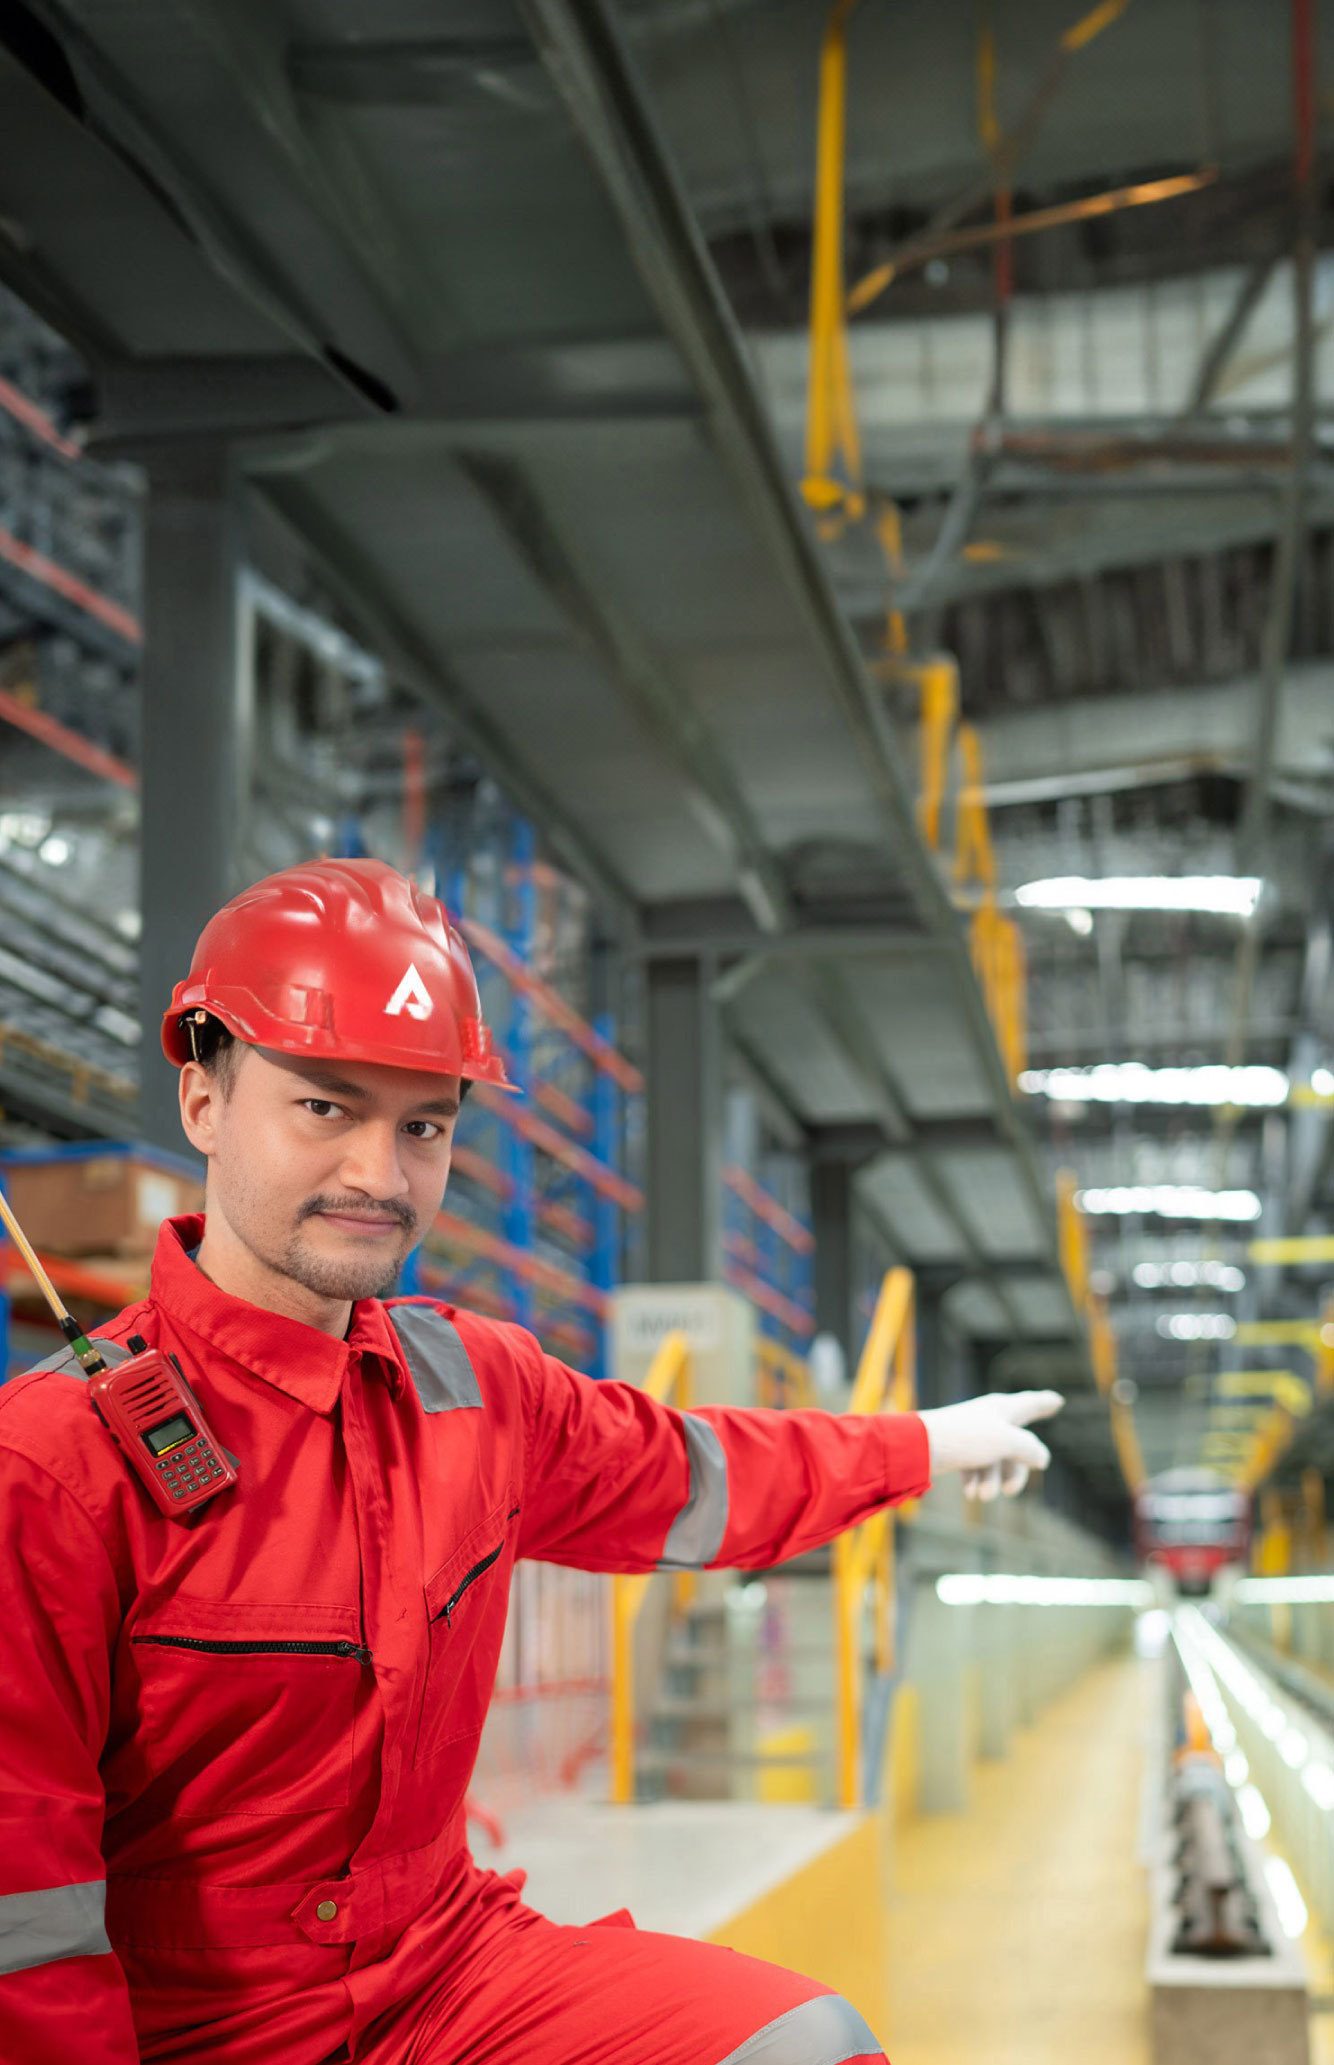
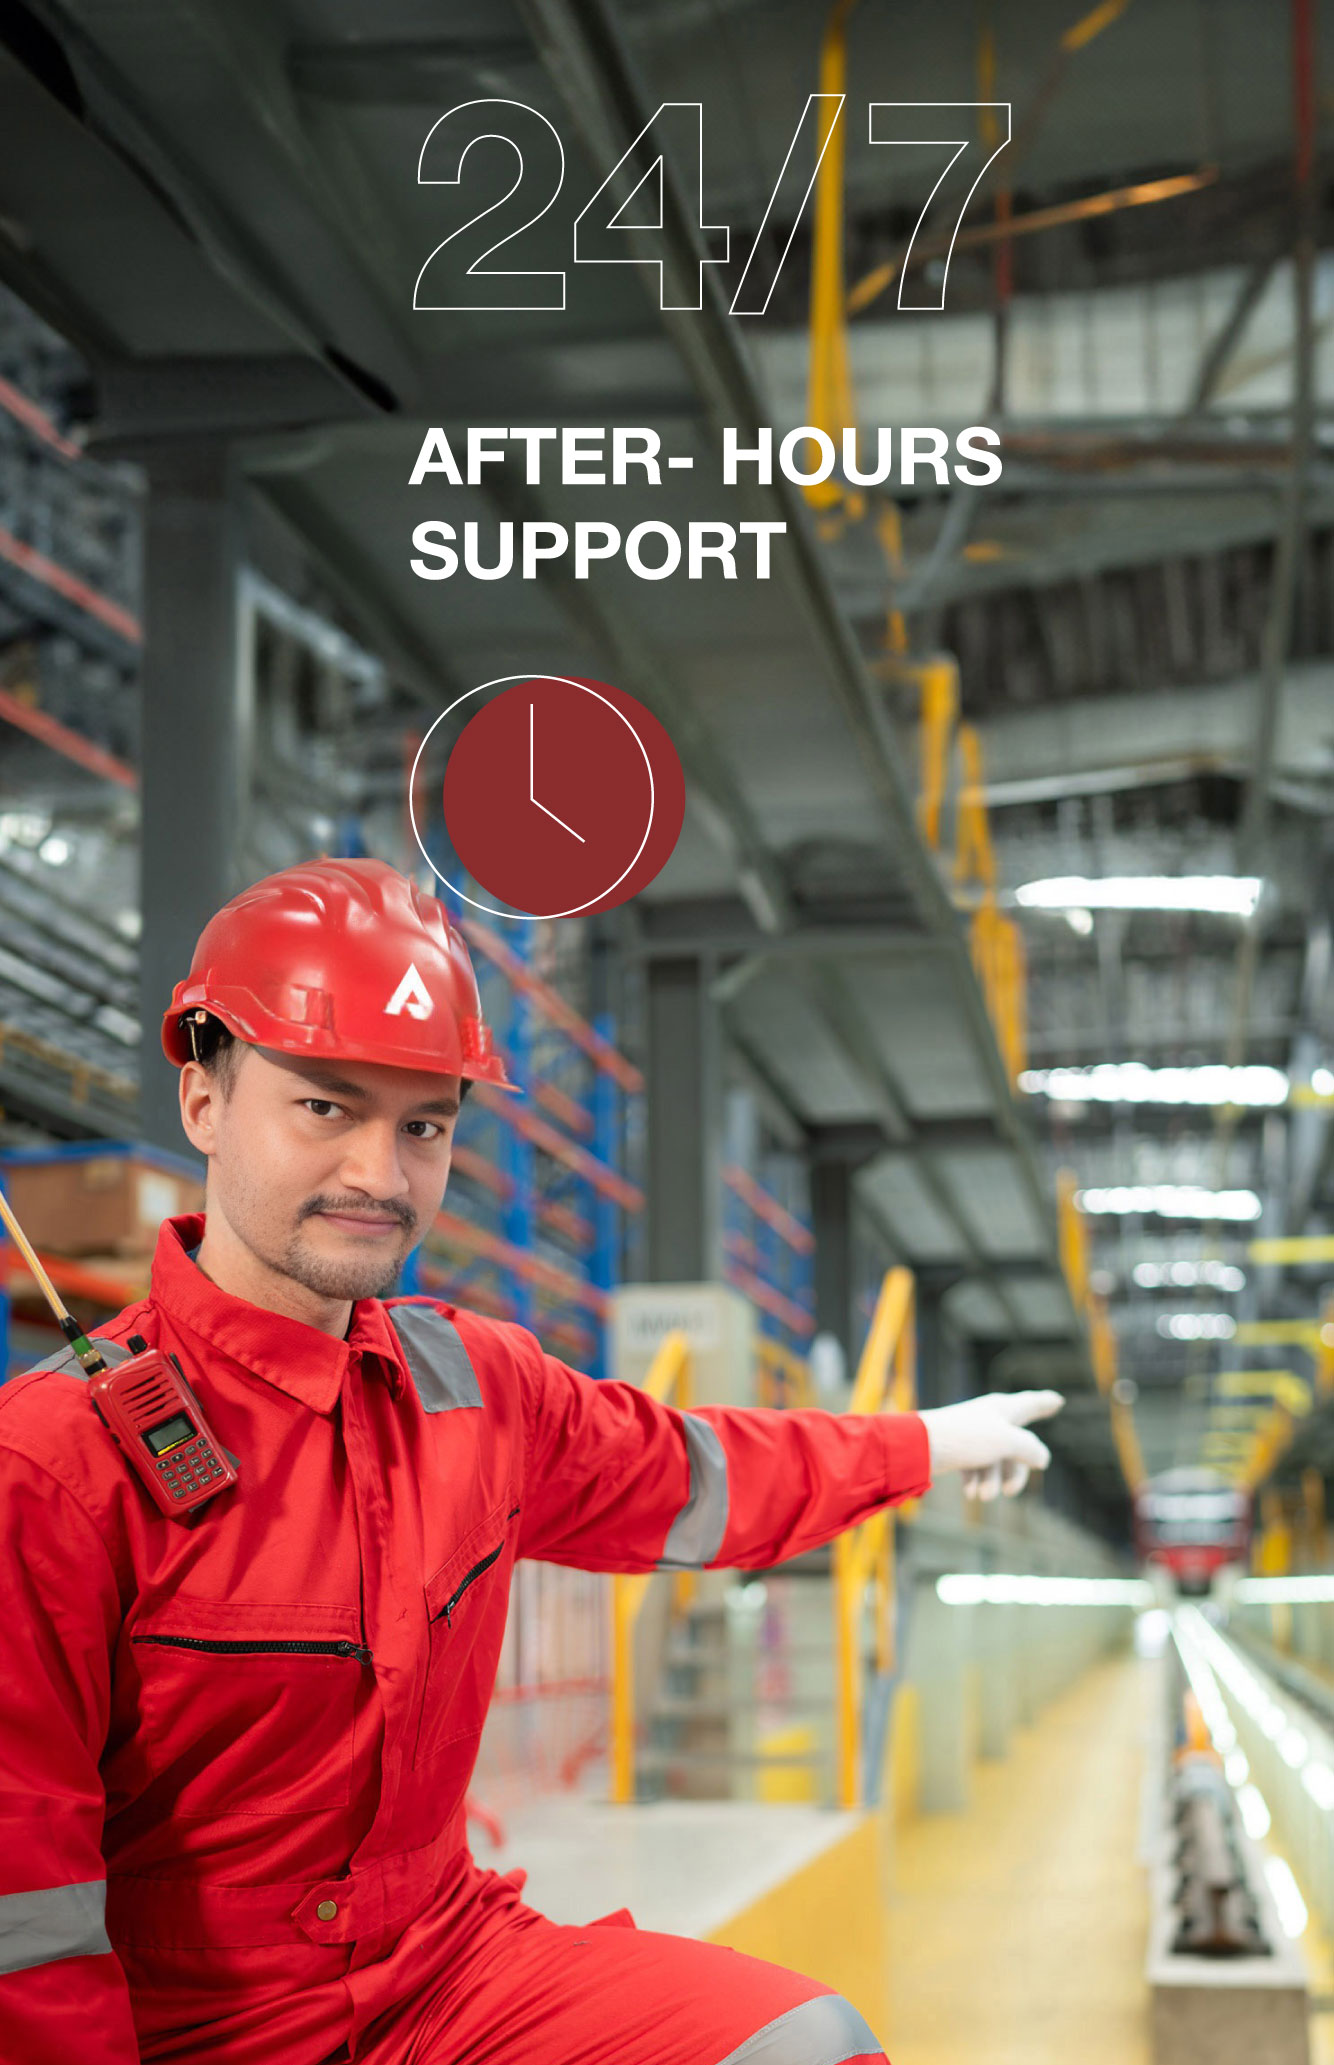
add wording floating on home page

diff --git a/public/ui/ui/index.html b/public/ui/ui/index.html
@@ -24,7 +24,7 @@
 
       @media (min-width: 1200px) {
          .mission-img {
-            --bs-aspect-ratio: 170%;
+            --bs-aspect-ratio: 204%;
          }
       }
    </style>
@@ -106,18 +106,18 @@
             </div>
          </div>
       </section>
-      <section class="bg-xl-primary text-xl-white">
+      <section class="bg-xl-primary text-xl-white position-relative">
          <div class="container-xl px-0">
             <div class="row mx-0">
                <div class="col px-0 col-12 col-xl-5 order-xl-2 ms-xl-auto position-relative">
-                  <div class="position-xl-absolute top-0 start-0 w-100">
+                  <div class="position-xl-absolute top-0 start-0 w-100 pe-lg-3">
                      <div class="mission-img ratio">
                         <img src="../assets/img/home/mission-banner.jpg" class="object-fit-cover" alt="">
                      </div>
                   </div>
                </div>
                <div class="col px-0 col-12 col-xl-6 order-xl-1">
-                  <div class="container py-5">
+                  <div class="container py-5 pt-xl-7">
                      <h5 class="section-title text-primary display-2 mb-4 text-xl-white">
                         <b class="fw-bold">MISSION</b> <br class="d-none d-lg-block">STATEMENT
                      </h5>
@@ -127,7 +127,8 @@
                            deliver solutions that exceed their expectations.
                         </li>
                         <li>
-                           Quality Assurance: Our commitment to quality ensures that every product and service we offer
+                           Quality Assurance: Our commitment to quality ensures that every product and service we
+                           offer
                            meets the highest standards.
                         </li>
                         <li>
@@ -147,9 +148,13 @@
                </div>
             </div>
          </div>
+         <div class="d-none d-xl-block position-absolute end-0 w-75 opacity-75"
+            style="top: 3em; transform: translateX(35%);">
+            <img src="../assets/img/home/wording-vision.svg" width="100%" height="auto" alt="">
+         </div>
       </section>
       <section>
-         <div class="container py-5">
+         <div class="container py-5 pt-xl-14 position-relative">
             <h5 class="section-title text-primary display-2 mb-4 text-lg-white">
                <b class="fw-bold">VISION</b> <br class="d-none d-lg-block">STATEMENT
             </h5>
@@ -160,6 +165,10 @@
                Additionally, we envision expanding our reach through e-commerce, providing seamless online experiences
                for our valued clients.
             </p>
+            <div class="d-none d-xl-block position-absolute start-0 top-0 end-0 w-100 opacity-75 px-3"
+               style="transform: translateY(-14%);">
+               <img src="../assets/img/home/wording-mission.svg" width="100%" height="auto" alt="">
+            </div>
          </div>
       </section>
       <section>

diff --git a/public/ui/assets/css/styles.css b/public/ui/assets/css/styles.css
@@ -11,6 +11,7 @@ body {
    min-height: 100%;
    display: grid;
    grid-template-rows: auto 1fr auto;
+   overflow-x: hidden;
 }
 
 a {
@@ -88,5 +89,17 @@ button {
 @media (min-width: 1200px) {
    .position-xl-absolute {
       position: absolute;
+   }
+}
+
+@media (min-width: 1200px) {
+   .pt-xl-7 {
+      padding-top: 7em !important;
+   }
+}
+
+@media (min-width: 1200px) {
+   .pt-xl-14 {
+      padding-top: 14em !important;
    }
 }
